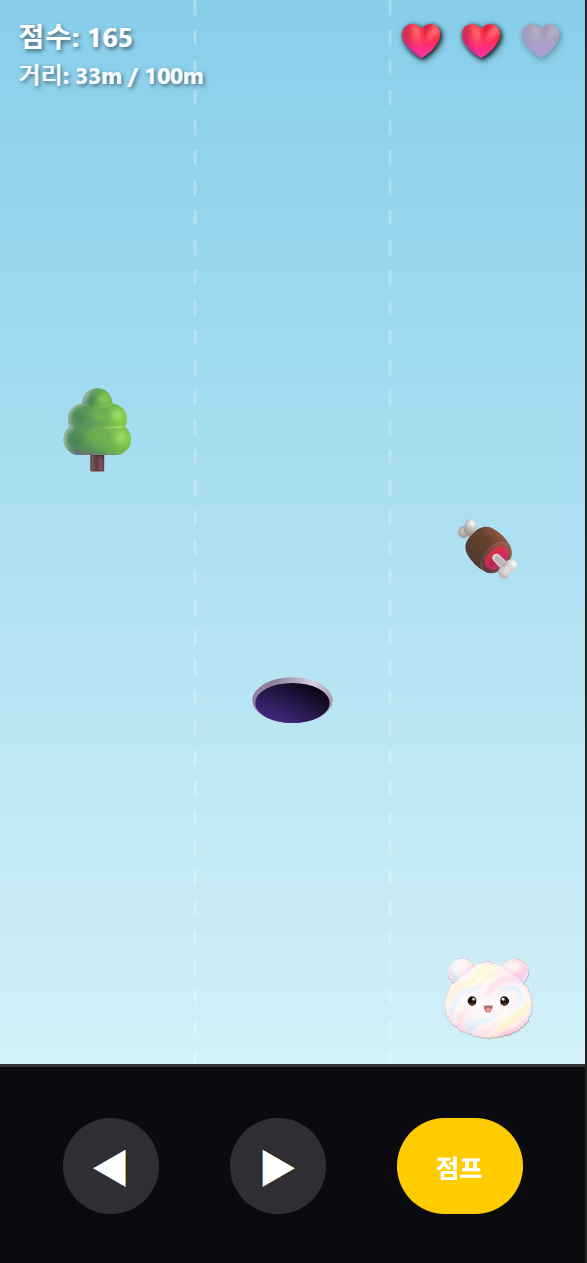
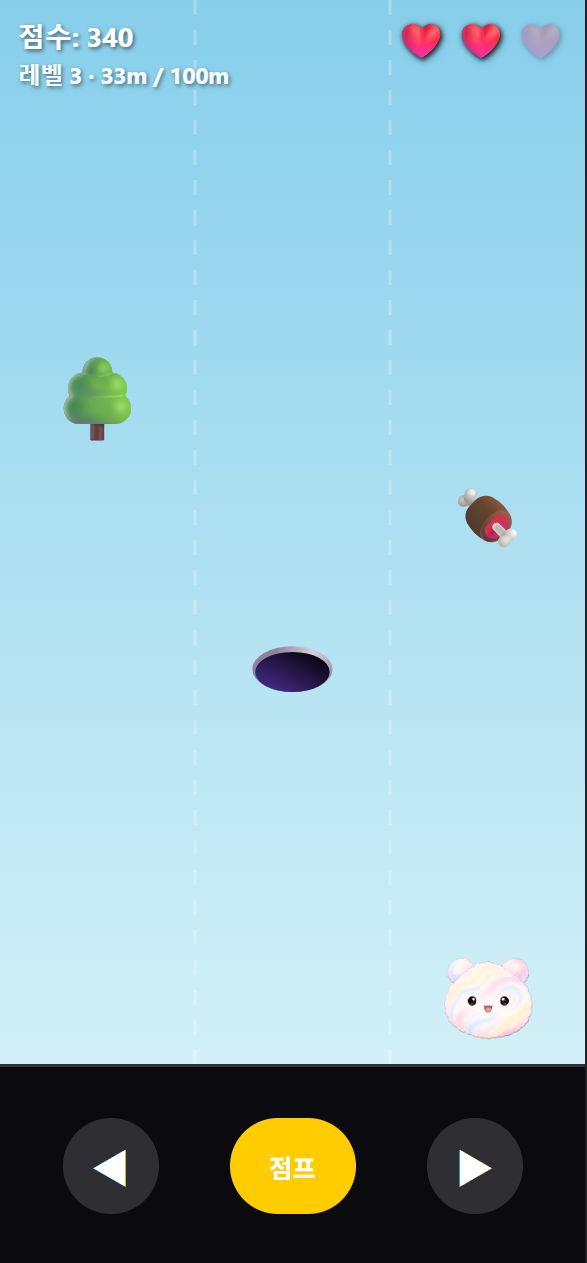
쭈채Run으로 개명, 버튼 순서 원복, 100m마다 무한 레벨업으로 변경, 허브 설명 한 줄 고정
- "쭈채런" → "쭈채Run"으로 게임 이름 변경(타이틀, 선택 화면, 허브 카드,
  README 전체 반영).
- 조작 버튼 순서를 ◀ ▶ 점프에서 ◀ 점프 ▶로 원복.
- 100m 도달 시 게임이 끝나던 것을, 레벨업하며 계속 이어지는 방식으로
  변경. 레벨이 오를수록 속도가 빨라지고 장애물 웨이브 확률도 늘어난다.
  레벨 1은 기존보다 속도를 낮추고 스폰 간격을 늘려 더 여유 있게 시작.
  HUD도 "레벨 N · 진행m/100m" 형식으로 표시.
- 허브 카드 설명을 한 줄로 고정(white-space: nowrap + ellipsis).
- 위 변경사항 반영해 똥피하기 조작 띠 관련 주석과 쭈채Run 허브 대표
  이미지를 갱신.

Claude-Session: https://claude.ai/code/session_01PNMbjxnMMixx3Q5p35Ptqu

diff --git a/games/0002-juchaerun/game.js b/games/0002-juchaerun/game.js
@@ -1,4 +1,4 @@
-// ===== 쭈채런: 3줄 달리기 게임 =====
+// ===== 쭈채Run: 3줄 달리기 게임 =====
 
 const canvas = document.getElementById("gameCanvas");
 const ctx = canvas.getContext("2d");
@@ -83,7 +83,7 @@ let width, height;
 let playHeight;
 let controlHeight;
 
-let player, entities, score, lives, distanceM, distancePx;
+let player, entities, score, lives, level, distanceM, distancePx;
 let meatEaten;
 let spawnTimer, spawnInterval;
 let invincibleFrames, running, paused;
@@ -161,24 +161,37 @@ const JUMP_HEIGHT = 46;
 const PAUSE_ZONE_MARGIN = 30;
 const PAUSE_BUTTON_UNLOCK_DELAY = 400;
 
-const GOAL_METERS = 100;
+const LEVEL_DISTANCE = 100; // 100m마다 레벨업
 const METER_SCORE = 5;
 const MEAT_SCORE = 10;
 const MEAT_PER_LIFE = 50;
 const PX_PER_METER = 60;
-const BASE_SPEED = 4;
-const SPEED_GROWTH_PER_METER = 0.035;
+// 레벨 1은 느긋하게 시작해서 레벨이 오를수록 점점 빨라지고 장애물도 늘어납니다.
+const BASE_SPEED = 2.6;
+const SPEED_GROWTH_PER_LEVEL = 0.6;
 const MAX_SPEED = 13;
+const BASE_SPAWN_INTERVAL = 78;
+const SPAWN_INTERVAL_DECAY_PER_LEVEL = 4;
+const MIN_SPAWN_INTERVAL = 30;
 const COLLIDE_BAND = 26;
 
 resize();
 
 function currentSpeed() {
-  return Math.min(MAX_SPEED, BASE_SPEED + distanceM * SPEED_GROWTH_PER_METER);
+  return Math.min(MAX_SPEED, BASE_SPEED + (level - 1) * SPEED_GROWTH_PER_LEVEL);
 }
 
 function currentSpawnInterval() {
-  return Math.max(30, 62 - distanceM * 0.3);
+  return Math.max(MIN_SPAWN_INTERVAL, BASE_SPAWN_INTERVAL - (level - 1) * SPAWN_INTERVAL_DECAY_PER_LEVEL);
+}
+
+// 레벨이 오를수록 장애물이 2개 겹쳐 나오는 웨이브 비중이 늘고, 아예 없는
+// 웨이브 비중은 줄어듭니다(그래도 한 줄은 항상 비워둡니다).
+function obstacleWaveProbabilities() {
+  const twoProb = Math.min(0.45, 0.06 + (level - 1) * 0.05);
+  const zeroProb = Math.max(0.10, 0.4 - (level - 1) * 0.04);
+  const oneProb = 1 - twoProb - zeroProb;
+  return { zeroProb, oneProb, twoProb };
 }
 
 function resetGame() {
@@ -193,6 +206,7 @@ function resetGame() {
   entities = [];
   score = 0;
   lives = MAX_LIVES;
+  level = 1;
   distanceM = 0;
   distancePx = 0;
   meatEaten = 0;
@@ -206,7 +220,8 @@ function resetGame() {
 
 function updateHud() {
   scoreEl.textContent = `점수: ${score}`;
-  distanceEl.textContent = `거리: ${distanceM}m / ${GOAL_METERS}m`;
+  const distanceInLevel = distanceM % LEVEL_DISTANCE;
+  distanceEl.textContent = `레벨 ${level} · ${distanceInLevel}m / ${LEVEL_DISTANCE}m`;
   livesEl.innerHTML = "";
   for (let i = 0; i < MAX_LIVES; i++) {
     const span = document.createElement("span");
@@ -299,8 +314,9 @@ window.addEventListener("keydown", (e) => {
 function spawnWave() {
   const lanes = [0, 1, 2];
   // 최소 한 줄은 항상 비워둬서 반드시 피할 길이 있게 합니다.
+  const { zeroProb, oneProb } = obstacleWaveProbabilities();
   const r = Math.random();
-  const obstacleCount = r < 0.2 ? 0 : r < 0.75 ? 1 : 2;
+  const obstacleCount = r < zeroProb ? 0 : r < zeroProb + oneProb ? 1 : 2;
 
   const shuffled = lanes.slice().sort(() => Math.random() - 0.5);
   const obstacleLanes = shuffled.slice(0, obstacleCount);
@@ -331,18 +347,21 @@ function update(dt) {
   if (player.jumpFrames > 0) player.jumpFrames = Math.max(0, player.jumpFrames - dt);
   if (invincibleFrames > 0) invincibleFrames = Math.max(0, invincibleFrames - dt);
 
-  // 거리 진행
+  // 거리 진행 (끝없이 누적되며, 100m마다 레벨업)
   const speed = currentSpeed();
   distancePx += speed * dt;
-  const newDistanceM = Math.min(GOAL_METERS, Math.floor(distancePx / PX_PER_METER));
+  const newDistanceM = Math.floor(distancePx / PX_PER_METER);
   if (newDistanceM > distanceM) {
     score += (newDistanceM - distanceM) * METER_SCORE;
     distanceM = newDistanceM;
-    updateHud();
-    if (distanceM >= GOAL_METERS) {
-      endGame(true);
-      return;
+
+    const newLevel = Math.floor(distanceM / LEVEL_DISTANCE) + 1;
+    if (newLevel > level) {
+      level = newLevel;
+      spawnInterval = currentSpawnInterval();
+      showLevelUpToast(`레벨 ${level}!`);
     }
+    updateHud();
   }
 
   // 스폰
@@ -388,7 +407,7 @@ function update(dt) {
         invincibleFrames = HIT_INVINCIBLE_FRAMES;
         updateHud();
         if (lives <= 0) {
-          endGame(false);
+          endGame();
           return;
         }
         continue;
@@ -549,17 +568,15 @@ function startGame() {
   rafId = requestAnimationFrame(loop);
 }
 
-function endGame(finished) {
+function endGame() {
   running = false;
   cancelAnimationFrame(rafId);
   hud.classList.add("hidden");
   controls.classList.add("hidden");
   gameoverHitImg.src = selectedCharacter.hitSrc || selectedCharacter.src;
   gameoverHitImg.classList.remove("hidden");
-  gameoverTitleEl.textContent = finished ? "🎉 골인! 🎉" : "게임 오버!";
-  finalScoreEl.textContent = finished
-    ? `점수: ${score} (100m 완주!)`
-    : `점수: ${score} (${distanceM}m 도달)`;
+  gameoverTitleEl.textContent = "게임 오버!";
+  finalScoreEl.textContent = `점수: ${score} (레벨 ${level} · ${distanceM}m 도달)`;
   const rankInfo = saveScoreAndGetRank(score);
   renderRanking(rankInfo);
   gameoverScreen.classList.remove("hidden");

diff --git a/games/0002-juchaerun/index.html b/games/0002-juchaerun/index.html
@@ -4,8 +4,8 @@
 <meta charset="UTF-8">
 <meta name="viewport" content="width=device-width, initial-scale=1.0, user-scalable=no, viewport-fit=cover">
 <meta name="robots" content="noindex, nofollow">
-<title>쭈채런</title>
-<link rel="stylesheet" href="style.css?v=5">
+<title>쭈채Run</title>
+<link rel="stylesheet" href="style.css?v=6">
 </head>
 <body>
   <div id="game-container">
@@ -14,25 +14,25 @@
     <div id="hud" class="hidden">
       <div id="hud-left">
         <div id="score">점수: 0</div>
-        <div id="distance">거리: 0m / 100m</div>
+        <div id="distance">레벨 1 · 0m / 100m</div>
       </div>
       <div id="lives"></div>
     </div>
 
     <div id="controls" class="hidden">
       <button id="leftBtn" aria-label="왼쪽 이동">◀</button>
-      <button id="rightBtn" aria-label="오른쪽 이동">▶</button>
       <button id="jumpBtn" aria-label="점프">점프</button>
+      <button id="rightBtn" aria-label="오른쪽 이동">▶</button>
     </div>
 
     <div id="select-screen" class="overlay">
       <a id="homeLink" href="../../index.html">← 허브로</a>
-      <h1>🏃 쭈채런 🏃</h1>
+      <h1>🏃 쭈채Run 🏃</h1>
       <p>캐릭터를 선택하세요</p>
       <div id="character-list"></div>
       <p class="hint">
         ◀ ▶ 버튼으로 세 줄(왼쪽·가운데·오른쪽) 사이를 이동하고, 점프 버튼으로 구덩이를 뛰어넘으세요.<br>
-        나무·바위는 옆줄로 피하고, 고기를 먹으면 +10점 · 100m를 달리면 골인!
+        나무·바위는 옆줄로 피하고, 고기를 먹으면 +10점 · 100m마다 레벨업하며 점점 빨라집니다!
       </p>
     </div>
 
@@ -55,6 +55,6 @@
     <div id="levelup-toast" class="hidden"></div>
   </div>
 
-  <script src="game.js?v=4"></script>
+  <script src="game.js?v=5"></script>
 </body>
 </html>

diff --git a/index.html b/index.html
@@ -5,7 +5,7 @@
 <meta name="viewport" content="width=device-width, initial-scale=1.0, user-scalable=no, viewport-fit=cover">
 <meta name="robots" content="noindex, nofollow">
 <title>쭈채 게임 모음</title>
-<link rel="stylesheet" href="hub.css?v=6">
+<link rel="stylesheet" href="hub.css?v=7">
 </head>
 <body>
   <div id="hub-container">
@@ -34,6 +34,6 @@
     <p class="hint">← → 방향키 또는 화면을 좌우로 밀어서 게임을 고르세요</p>
   </div>
 
-  <script src="hub.js?v=6"></script>
+  <script src="hub.js?v=7"></script>
 </body>
 </html>

diff --git a/games/0001-ddong-pihagi/game.js b/games/0001-ddong-pihagi/game.js
@@ -129,7 +129,7 @@ function resize() {
   width = vp.w;
   height = vp.h;
 
-  // 조작 띠: 화면의 16% 정도, 너무 얇거나 두껍지 않게(쭈채런과 동일한 비율).
+  // 조작 띠: 화면의 16% 정도, 너무 얇거나 두껍지 않게(쭈채Run과 동일한 비율).
   // 하단 안전 영역만큼 더 확보해서 조작 띠가 제스처 바에 가려지지 않게 합니다.
   controlHeight = Math.max(100, Math.min(160, Math.round(height * 0.16))) + getSafeAreaBottom();
   playHeight = height - controlHeight;

diff --git a/hub.js b/hub.js
@@ -11,7 +11,7 @@ const GAMES = [
   },
   {
     id: "0002",
-    title: "쭈채런",
+    title: "쭈채Run",
     desc: "세 줄을 오가며 100m를 달려라!",
     path: "games/0002-juchaerun/index.html",
     thumb: "games/0002-juchaerun/assets/thumb.png",

diff --git a/hub.css b/hub.css
@@ -136,6 +136,10 @@ body {
   font-size: 14px;
   opacity: 0.75;
   min-height: 18px;
+  width: 100%;
+  white-space: nowrap;
+  overflow: hidden;
+  text-overflow: ellipsis;
 }
 
 #dots {

diff --git a/games/0001-ddong-pihagi/index.html b/games/0001-ddong-pihagi/index.html
@@ -46,6 +46,6 @@
     <div id="levelup-toast" class="hidden"></div>
   </div>
 
-  <script src="game.js?v=14"></script>
+  <script src="game.js?v=15"></script>
 </body>
 </html>

diff --git a/README.md b/README.md
@@ -27,17 +27,17 @@
   (이미 3개면 그대로 유지됩니다)
 - 목숨 3개를 모두 잃으면 게임이 끝나고, 그때의 점수가 **랭킹에 누적**되어 역대 등수가 표시됩니다.
 
-## 0002. 🏃 쭈채런
+## 0002. 🏃 쭈채Run
 
 - 시작할 때 **보라 캐릭터**와 **솜사탕 곰** 중 하나를 선택합니다(똥피하기 03·05번 캐릭터).
 - 화면이 세로로 계속 흘러 내려오며, 캐릭터는 **왼쪽·가운데·오른쪽 세 줄** 중 한 줄에 서 있습니다.
-- 하단 버튼 3개로 조작합니다: **◀ / ▶**로 옆줄 이동, **점프**로 구덩이를 뛰어넘습니다.
+- 하단 버튼 3개(**◀ / 점프 / ▶**)로 조작합니다: ◀ ▶로 옆줄 이동, 점프로 구덩이를 뛰어넘습니다.
   - 구덩이는 점프로만 피할 수 있고, 나무·바위는 옆줄로 옮겨야 피할 수 있습니다(점프로는 못 피함).
   - 고기를 지나가면 자동으로 먹고 **+10점**.
-- **1m 갈 때마다 +5점**, 총 **100m**를 달리면 **골인**합니다.
+- **1m 갈 때마다 +5점**. **100m마다 레벨업**하며 속도가 빨라지고 장애물도 늘어납니다(끝없이 이어집니다). 레벨 1은 여유 있게 시작합니다.
 - 목숨은 **3개**로 시작하고, 장애물에 걸리면 하나씩 줄어듭니다(맞은 직후 잠시 무적 — 똥피하기와 동일).
 - **고기 50개를 먹을 때마다 목숨이 1개 늘어납니다. 단 최대 3개까지만.**
-- 목숨을 모두 잃거나 100m를 완주하면 게임이 끝나고, 그때의 점수가 **랭킹에 누적**됩니다.
+- 목숨을 모두 잃으면 게임이 끝나고, 그때의 점수가 **랭킹에 누적**됩니다.
 - 캐릭터보다 위쪽 화면을 탭하면 일시정지됩니다(똥피하기와 동일한 방식).
 
 ## 0003. 🧠 기억력 게임
@@ -115,7 +115,7 @@ juchae-game-app/
     │       ├── character_dog.png / character_tiger.png / character_dragon.png
     │       ├── poop.png
     │       └── poop_big.png
-    ├── 0002-juchaerun/        🏃 쭈채런
+    ├── 0002-juchaerun/        🏃 쭈채Run
     │   ├── index.html
     │   ├── style.css
     │   └── game.js
